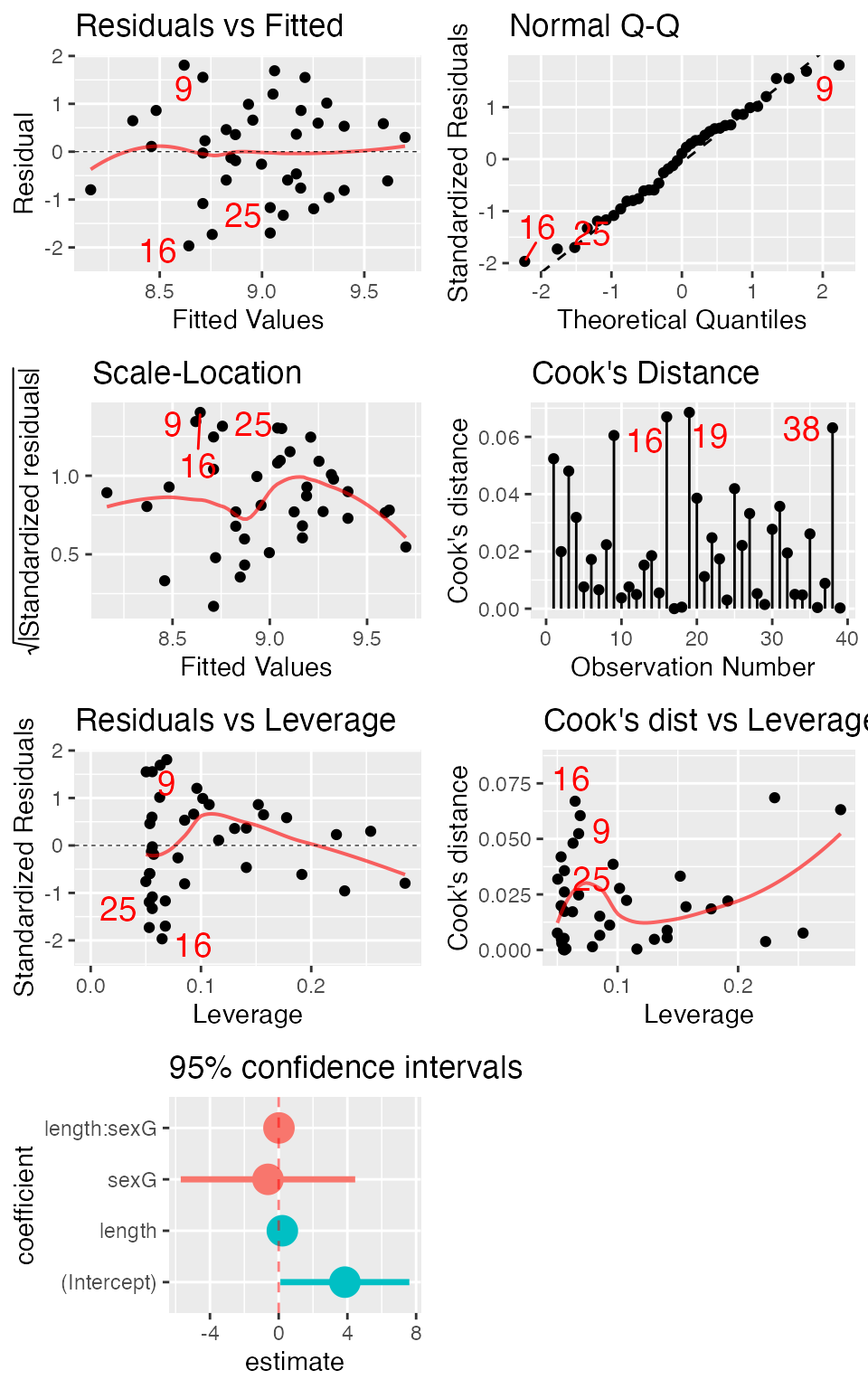
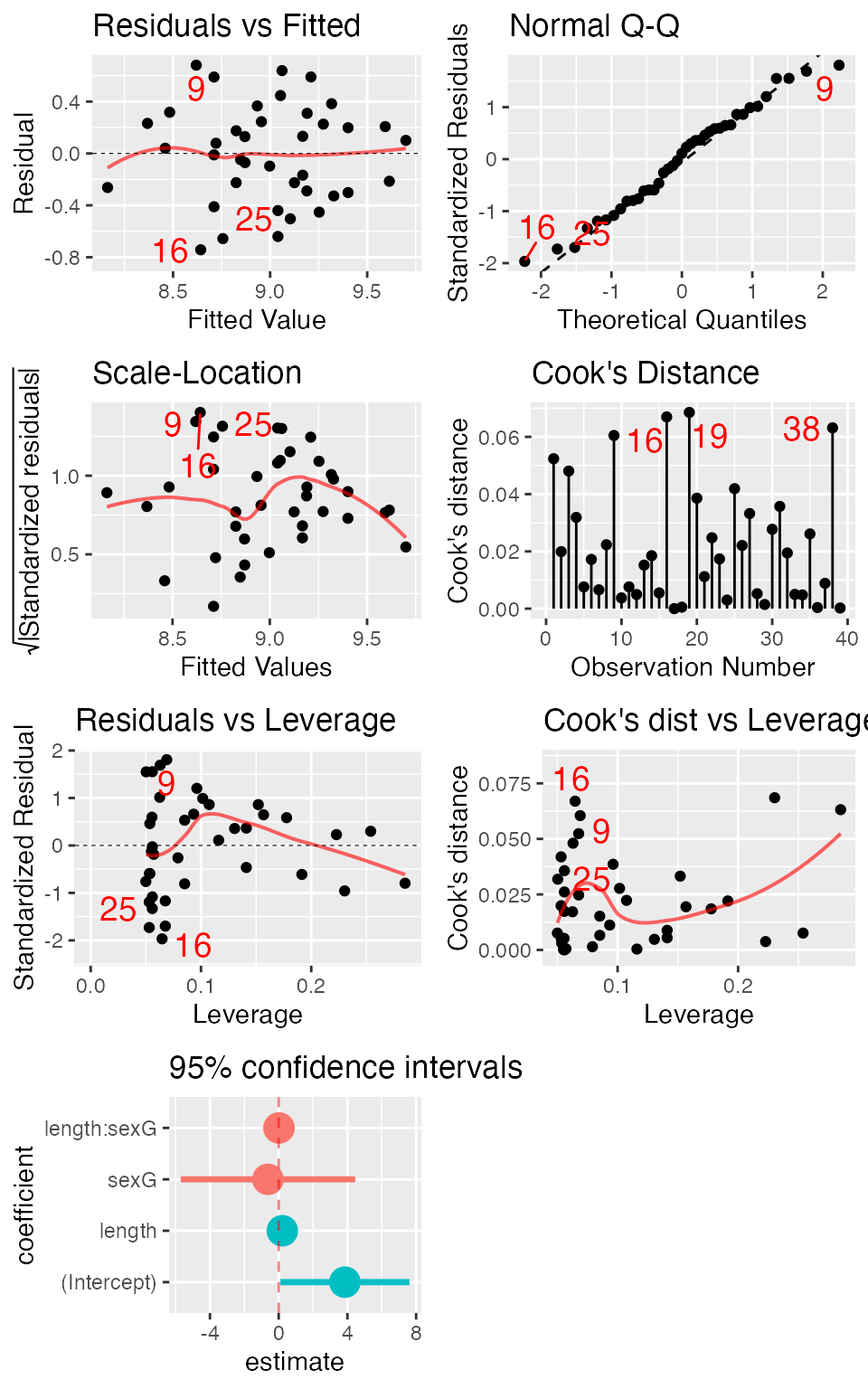
rebuild pkgdown

Changed region(s): [[0.0625, 0.0, 0.4688, 0.25], [0.0, 0.5312, 0.0625, 0.7188], [0.4062, 0.1875, 0.4375, 0.2188]]

diff --git a/docs/reference/do.html b/docs/reference/do.html
@@ -257,9 +257,9 @@ and Randall Pruim (<a href='mailto:rpruim@calvin.edu'>rpruim@calvin.edu</a>)</p>
 </div><div class='output co'>#&gt; <span class='message'>Using parallel package.</span>
 #&gt; <span class='message'>  * Set seed with set.rseed().</span>
 #&gt; <span class='message'>  * Disable this message with options(`mosaic:parallelMessage` = FALSE)</span></div><div class='output co'>#&gt;        rnorm
-#&gt; 1 -1.9633309
-#&gt; 2  0.6799135
-#&gt; 3 -0.9810619</div><div class='input'><span class='fu'>do</span><span class='op'>(</span><span class='fl'>3</span><span class='op'>)</span> <span class='op'>*</span> <span class='st'>"hello"</span>
+#&gt; 1 -1.0345478
+#&gt; 2  0.7987134
+#&gt; 3  0.1053965</div><div class='input'><span class='fu'>do</span><span class='op'>(</span><span class='fl'>3</span><span class='op'>)</span> <span class='op'>*</span> <span class='st'>"hello"</span>
 </div><div class='output co'>#&gt; <span class='message'>Using parallel package.</span>
 #&gt; <span class='message'>  * Set seed with set.rseed().</span>
 #&gt; <span class='message'>  * Disable this message with options(`mosaic:parallelMessage` = FALSE)</span></div><div class='output co'>#&gt;   hello
@@ -274,32 +274,32 @@ and Randall Pruim (<a href='mailto:rpruim@calvin.edu'>rpruim@calvin.edu</a>)</p>
 #&gt; 3  1  2  3  4</div><div class='input'><span class='fu'>do</span><span class='op'>(</span><span class='fl'>3</span><span class='op'>)</span> <span class='op'>*</span> <span class='fu'><a href='mean_.html'>mean</a></span><span class='op'>(</span><span class='fu'><a href='https://rdrr.io/r/stats/Normal.html'>rnorm</a></span><span class='op'>(</span><span class='fl'>25</span><span class='op'>)</span><span class='op'>)</span>
 </div><div class='output co'>#&gt; <span class='message'>Using parallel package.</span>
 #&gt; <span class='message'>  * Set seed with set.rseed().</span>
-#&gt; <span class='message'>  * Disable this message with options(`mosaic:parallelMessage` = FALSE)</span></div><div class='output co'>#&gt;         mean
-#&gt; 1  0.4051522
-#&gt; 2  0.2165816
-#&gt; 3 -0.1151129</div><div class='input'><span class='fu'>do</span><span class='op'>(</span><span class='fl'>3</span><span class='op'>)</span> <span class='op'>*</span> <span class='fu'><a href='https://rdrr.io/r/stats/lm.html'>lm</a></span><span class='op'>(</span><span class='fu'><a href='resample.html'>shuffle</a></span><span class='op'>(</span><span class='va'>height</span><span class='op'>)</span> <span class='op'>~</span> <span class='va'>sex</span> <span class='op'>+</span> <span class='va'>mother</span>, <span class='va'>Galton</span><span class='op'>)</span>
+#&gt; <span class='message'>  * Disable this message with options(`mosaic:parallelMessage` = FALSE)</span></div><div class='output co'>#&gt;           mean
+#&gt; 1  0.006721584
+#&gt; 2  0.039348176
+#&gt; 3 -0.192240406</div><div class='input'><span class='fu'>do</span><span class='op'>(</span><span class='fl'>3</span><span class='op'>)</span> <span class='op'>*</span> <span class='fu'><a href='https://rdrr.io/r/stats/lm.html'>lm</a></span><span class='op'>(</span><span class='fu'><a href='resample.html'>shuffle</a></span><span class='op'>(</span><span class='va'>height</span><span class='op'>)</span> <span class='op'>~</span> <span class='va'>sex</span> <span class='op'>+</span> <span class='va'>mother</span>, <span class='va'>Galton</span><span class='op'>)</span>
 </div><div class='output co'>#&gt; <span class='message'>Using parallel package.</span>
 #&gt; <span class='message'>  * Set seed with set.rseed().</span>
-#&gt; <span class='message'>  * Disable this message with options(`mosaic:parallelMessage` = FALSE)</span></div><div class='output co'>#&gt;   Intercept        sexM       mother    sigma    r.squared        F numdf dendf
-#&gt; 1  68.63566 -0.07571604 -0.028645974 3.586134 0.0004379646 0.196075     2   895
-#&gt; 2  69.37194  0.08719953 -0.041451671 3.585334 0.0008835761 0.395750     2   895
-#&gt; 3  66.54729  0.14832865  0.002131402 3.586151 0.0004282589 0.191728     2   895
+#&gt; <span class='message'>  * Disable this message with options(`mosaic:parallelMessage` = FALSE)</span></div><div class='output co'>#&gt;   Intercept       sexM     mother    sigma   r.squared         F numdf dendf
+#&gt; 1  64.45391 -0.1710129 0.03737782 3.584785 0.001189603 0.5329814     2   895
+#&gt; 2  64.45215 -0.3852502 0.03913629 3.580419 0.003621433 1.6264814     2   895
+#&gt; 3  64.21043 -0.1280755 0.04083021 3.585047 0.001044051 0.4677011     2   895
 #&gt;   .row .index
 #&gt; 1    1      1
 #&gt; 2    1      2
 #&gt; 3    1      3</div><div class='input'><span class='fu'>do</span><span class='op'>(</span><span class='fl'>3</span><span class='op'>)</span> <span class='op'>*</span> <span class='fu'><a href='https://rdrr.io/r/stats/anova.html'>anova</a></span><span class='op'>(</span><span class='fu'><a href='https://rdrr.io/r/stats/lm.html'>lm</a></span><span class='op'>(</span><span class='fu'><a href='resample.html'>shuffle</a></span><span class='op'>(</span><span class='va'>height</span><span class='op'>)</span> <span class='op'>~</span> <span class='va'>sex</span> <span class='op'>+</span> <span class='va'>mother</span>, <span class='va'>Galton</span><span class='op'>)</span><span class='op'>)</span>
 </div><div class='output co'>#&gt; <span class='message'>Using parallel package.</span>
 #&gt; <span class='message'>  * Set seed with set.rseed().</span>
-#&gt; <span class='message'>  * Disable this message with options(`mosaic:parallelMessage` = FALSE)</span></div><div class='output co'>#&gt;                  source  df           SS        MS         F      pval .row
-#&gt; sex...1             sex   1     1.878168  1.878168 0.1460253 0.7024538    1
-#&gt; mother...2       mother   1     1.747952  1.747952 0.1359011 0.7124775    2
-#&gt; Residuals...3 Residuals 895 11511.436251 12.861940        NA        NA    3
-#&gt; sex...4             sex   1     6.501050  6.501050 0.5061294 0.4770046    1
-#&gt; mother...5       mother   1    12.608856 12.608856 0.9816434 0.3220612    2
-#&gt; Residuals...6 Residuals 895 11495.952466 12.844640        NA        NA    3
-#&gt; sex...7             sex   1    17.266731 17.266731 1.3464580 0.2462077    1
-#&gt; mother...8       mother   1    20.479387 20.479387 1.5969806 0.2066607    2
-#&gt; Residuals...9 Residuals 895 11477.316254 12.823817        NA        NA    3
+#&gt; <span class='message'>  * Disable this message with options(`mosaic:parallelMessage` = FALSE)</span></div><div class='output co'>#&gt;                  source  df           SS         MS          F      pval .row
+#&gt; sex...1             sex   1 5.919968e-01  0.5919968 0.04610984 0.8300252    1
+#&gt; mother...2       mother   1 2.371030e+01 23.7103009 1.84676376 0.1745026    2
+#&gt; Residuals...3 Residuals 895 1.149076e+04 12.8388381         NA        NA    3
+#&gt; sex...4             sex   1 1.842778e+01 18.4277826 1.43510543 0.2312502    1
+#&gt; mother...5       mother   1 4.192925e+00  4.1929247 0.32653353 0.5678509    2
+#&gt; Residuals...6 Residuals 895 1.149244e+04 12.8407169         NA        NA    3
+#&gt; sex...7             sex   1 4.488690e+01 44.8868984 3.50742895 0.0614200    1
+#&gt; mother...8       mother   1 1.626590e+01 16.2659019 1.27100551 0.2598803    2
+#&gt; Residuals...9 Residuals 895 1.145391e+04 12.7976643         NA        NA    3
 #&gt;               .index
 #&gt; sex...1            1
 #&gt; mother...2         1
@@ -313,22 +313,22 @@ and Randall Pruim (<a href='mailto:rpruim@calvin.edu'>rpruim@calvin.edu</a>)</p>
 </div><div class='output co'>#&gt; <span class='message'>Using parallel package.</span>
 #&gt; <span class='message'>  * Set seed with set.rseed().</span>
 #&gt; <span class='message'>  * Disable this message with options(`mosaic:parallelMessage` = FALSE)</span></div><div class='output co'>#&gt;   sample.mean
-#&gt; 1 -0.47640160
-#&gt; 2  0.07563422
-#&gt; 3 -0.08604106</div><div class='input'><span class='co'># change the names on the fly</span>
+#&gt; 1  0.08799766
+#&gt; 2  0.14830201
+#&gt; 3  0.09310375</div><div class='input'><span class='co'># change the names on the fly</span>
 <span class='fu'>do</span><span class='op'>(</span><span class='fl'>3</span><span class='op'>)</span> <span class='op'>*</span> <span class='fu'><a href='mean_.html'>mean</a></span><span class='op'>(</span><span class='op'>~</span><span class='va'>height</span>, data <span class='op'>=</span> <span class='fu'><a href='resample.html'>resample</a></span><span class='op'>(</span><span class='va'>Galton</span><span class='op'>)</span><span class='op'>)</span>
 </div><div class='output co'>#&gt; <span class='message'>Using parallel package.</span>
 #&gt; <span class='message'>  * Set seed with set.rseed().</span>
 #&gt; <span class='message'>  * Disable this message with options(`mosaic:parallelMessage` = FALSE)</span></div><div class='output co'>#&gt;       mean
-#&gt; 1 66.73296
-#&gt; 2 66.66047
-#&gt; 3 66.74777</div><div class='input'><span class='fu'>do</span><span class='op'>(</span><span class='fl'>3</span><span class='op'>)</span> <span class='op'>*</span> <span class='fu'><a href='https://rdrr.io/r/base/c.html'>c</a></span><span class='op'>(</span>mean_height <span class='op'>=</span> <span class='fu'><a href='mean_.html'>mean</a></span><span class='op'>(</span><span class='op'>~</span><span class='va'>height</span>, data <span class='op'>=</span> <span class='fu'><a href='resample.html'>resample</a></span><span class='op'>(</span><span class='va'>Galton</span><span class='op'>)</span><span class='op'>)</span><span class='op'>)</span>
+#&gt; 1 66.63051
+#&gt; 2 66.67105
+#&gt; 3 66.68964</div><div class='input'><span class='fu'>do</span><span class='op'>(</span><span class='fl'>3</span><span class='op'>)</span> <span class='op'>*</span> <span class='fu'><a href='https://rdrr.io/r/base/c.html'>c</a></span><span class='op'>(</span>mean_height <span class='op'>=</span> <span class='fu'><a href='mean_.html'>mean</a></span><span class='op'>(</span><span class='op'>~</span><span class='va'>height</span>, data <span class='op'>=</span> <span class='fu'><a href='resample.html'>resample</a></span><span class='op'>(</span><span class='va'>Galton</span><span class='op'>)</span><span class='op'>)</span><span class='op'>)</span>
 </div><div class='output co'>#&gt; <span class='message'>Using parallel package.</span>
 #&gt; <span class='message'>  * Set seed with set.rseed().</span>
 #&gt; <span class='message'>  * Disable this message with options(`mosaic:parallelMessage` = FALSE)</span></div><div class='output co'>#&gt;   mean_height
-#&gt; 1    66.77906
-#&gt; 2    66.74521
-#&gt; 3    66.73274</div><div class='input'><span class='fu'><a href='set.rseed.html'>set.rseed</a></span><span class='op'>(</span><span class='fl'>1234</span><span class='op'>)</span>
+#&gt; 1    66.71125
+#&gt; 2    66.65445
+#&gt; 3    66.92584</div><div class='input'><span class='fu'><a href='set.rseed.html'>set.rseed</a></span><span class='op'>(</span><span class='fl'>1234</span><span class='op'>)</span>
 <span class='fu'>do</span><span class='op'>(</span><span class='fl'>3</span><span class='op'>)</span> <span class='op'>*</span> <span class='fu'><a href='https://rdrr.io/pkg/mosaicCore/man/tally.html'>tally</a></span><span class='op'>(</span> <span class='op'>~</span><span class='va'>sex</span><span class='op'>|</span><span class='va'>treat</span>, data<span class='op'>=</span><span class='fu'><a href='resample.html'>resample</a></span><span class='op'>(</span><span class='va'>HELPrct</span><span class='op'>)</span><span class='op'>)</span>
 </div><div class='output co'>#&gt; <span class='message'>Using parallel package.</span>
 #&gt; <span class='message'>  * Set seed with set.rseed().</span>

diff --git a/docs/reference/design_plot.html b/docs/reference/design_plot.html
@@ -6,7 +6,7 @@
 <meta http-equiv="X-UA-Compatible" content="IE=edge">
 <meta name="viewport" content="width=device-width, initial-scale=1.0">
 
-<title>Interactive plotting — mPlot • mosaic</title>
+<title>Interactively design plots — design_plot • mosaic</title>
 
 
 <!-- jquery -->
@@ -39,13 +39,11 @@
 
 
 
-<meta property="og:title" content="Interactive plotting — mPlot" />
-<meta property="og:description" content="These functions provide a menu selection system (via manipulate) so that
-different aspects of a plot can be selected interactively.
-The ggplot2 or lattice
-command for generating the plot currently being displayed can be copied to the
-console, whence it can be copied to a document for later direct, non-interactive
-use." />
+<meta property="og:title" content="Interactively design plots — design_plot" />
+<meta property="og:description" content="Proves a simple interface to let users interactively design plots in ggformula, lattice, or ggplot2.
+An option is available to show the code used to create the plot.
+This can be copied and pasted elsewhere to (into an RMarkdown document, for example) to recreate the plot.
+Only works in RStudio. Requires the manipulate package." />
 
 
 
@@ -140,21 +138,19 @@ use." />
 <div class="row">
   <div class="col-md-9 contents">
     <div class="page-header">
-    <h1>Interactive plotting</h1>
+    <h1>Interactively design plots</h1>
     <small class="dont-index">Source: <a href='https://github.com/ProjectMOSAIC/mosaic/blob/master/R/mPlots.R'><code>R/mPlots.R</code></a></small>
-    <div class="hidden name"><code>mPlotting.Rd</code></div>
+    <div class="hidden name"><code>design_plot.Rd</code></div>
     </div>
 
     <div class="ref-description">
-    <p>These functions provide a menu selection system (via <span class="pkg">manipulate</span>) so that
-different aspects of a plot can be selected interactively.
-The <span class="pkg">ggplot2</span> or <span class="pkg">lattice</span>
-command for generating the plot currently being displayed can be copied to the
-console, whence it can be copied to a document for later direct, non-interactive
-use.</p>
+    <p>Proves a simple interface to let users interactively design plots in <span class="pkg">ggformula</span>, <span class="pkg">lattice</span>, or <span class="pkg">ggplot2</span>.
+An option is available to show the code used to create the plot.
+This can be copied and pasted elsewhere to (into an RMarkdown document, for example) to recreate the plot.
+Only works in RStudio. Requires the <span class="pkg">manipulate</span> package.</p>
     </div>
 
-    <pre class="usage"><span class='fu'>mPlot</span><span class='op'>(</span>
+    <pre class="usage"><span class='fu'>design_plot</span><span class='op'>(</span>
   <span class='va'>data</span>,
   <span class='va'>format</span>,
   default <span class='op'>=</span> <span class='va'>format</span>,
@@ -163,35 +159,6 @@ use.</p>
   title <span class='op'>=</span> <span class='st'>""</span>,
   data_text <span class='op'>=</span> <span class='fu'><a href='https://rdrr.io/r/base/substitute.html'>substitute</a></span><span class='op'>(</span><span class='va'>data</span><span class='op'>)</span>,
   <span class='va'>...</span>
-<span class='op'>)</span>
-
-<span class='fu'>mMap</span><span class='op'>(</span>
-  <span class='va'>data</span>,
-  default <span class='op'>=</span> <span class='st'>"map"</span>,
-  system <span class='op'>=</span> <span class='st'>"ggplot2"</span>,
-  show <span class='op'>=</span> <span class='cn'>FALSE</span>,
-  title <span class='op'>=</span> <span class='va'>title</span>,
-  data_text <span class='op'>=</span> <span class='fu'>rlang</span><span class='fu'>::</span><span class='fu'><a href='https://rlang.r-lib.org/reference/expr_label.html'>expr_text</a></span><span class='op'>(</span><span class='va'>data</span><span class='op'>)</span>,
-  <span class='va'>...</span>
-<span class='op'>)</span>
-
-<span class='fu'>mScatter</span><span class='op'>(</span>
-  <span class='va'>data</span>,
-  default <span class='op'>=</span> <span class='fu'><a href='https://rdrr.io/r/base/c.html'>c</a></span><span class='op'>(</span><span class='st'>"scatter"</span>, <span class='st'>"jitter"</span>, <span class='st'>"boxplot"</span>, <span class='st'>"violin"</span>, <span class='st'>"line"</span>, <span class='st'>"sina"</span>,
-    <span class='st'>"density (contours)"</span>, <span class='st'>"density (filled)"</span><span class='op'>)</span>,
-  system <span class='op'>=</span> <span class='st'>"ggformula"</span>,
-  show <span class='op'>=</span> <span class='cn'>FALSE</span>,
-  title <span class='op'>=</span> <span class='st'>""</span>,
-  data_text <span class='op'>=</span> <span class='fu'>rlang</span><span class='fu'>::</span><span class='fu'><a href='https://rlang.r-lib.org/reference/expr_label.html'>expr_text</a></span><span class='op'>(</span><span class='va'>data</span><span class='op'>)</span>
-<span class='op'>)</span>
-
-<span class='fu'>mUniplot</span><span class='op'>(</span>
-  <span class='va'>data</span>,
-  default <span class='op'>=</span> <span class='fu'><a href='https://rdrr.io/r/base/c.html'>c</a></span><span class='op'>(</span><span class='st'>"histogram"</span>, <span class='st'>"density"</span>, <span class='st'>"frequency polygon"</span>, <span class='st'>"ASH plot"</span><span class='op'>)</span>,
-  system <span class='op'>=</span> <span class='fu'>system_choices</span><span class='op'>(</span><span class='op'>)</span><span class='op'>[</span><span class='fl'>1</span><span class='op'>]</span>,
-  show <span class='op'>=</span> <span class='cn'>FALSE</span>,
-  title <span class='op'>=</span> <span class='st'>""</span>,
-  data_text <span class='op'>=</span> <span class='fu'>rlang</span><span class='fu'>::</span><span class='fu'><a href='https://rlang.r-lib.org/reference/expr_label.html'>expr_text</a></span><span class='op'>(</span><span class='va'>data</span><span class='op'>)</span>
 <span class='op'>)</span></pre>
 
     <h2 class="hasAnchor" id="arguments"><a class="anchor" href="#arguments"></a>Arguments</h2>
@@ -256,27 +223,24 @@ modify this from the default value.</p></td>
 
     <h2 class="hasAnchor" id="value"><a class="anchor" href="#value"></a>Value</h2>
 
-    <p>Nothing.  Just for side effects.</p>
+    <p>Nothing.  Used for side effects.</p>
     <h2 class="hasAnchor" id="details"><a class="anchor" href="#details"></a>Details</h2>
 
-    <p>Only <code>mPlot</code> is required by end users.  The other plotting functions
-are dispatched based on the value of <code>default</code>.  Furthermore, <code><a href='mplot.html'>mplot()</a></code>
-will dispatch <code>mPlot</code> when provided a data frame.</p>
-<p>Currently maps are only supported in <span class="pkg">ggplot2</span> and not in <span class="pkg">lattice</span>.</p>
-<p>Due to an unresolved issue with RStudio, the first time this function is called, and additional
-plot is created to correctily initialize the mainipulate frameowrk.</p>
-    <h2 class="hasAnchor" id="note"><a class="anchor" href="#note"></a>Note</h2>
-
-    
-
-
+    <p>Currently maps are only supported in <span class="pkg">ggplot2</span> and not in <span class="pkg">lattice</span>.</p>
 <p>Due to an unresolved issue with RStudio, the first time this function is called, and additional
 plot is created to correctily initialize the mainipulate frameowrk.</p>
 
     <h2 class="hasAnchor" id="examples"><a class="anchor" href="#examples"></a>Examples</h2>
     <pre class="examples"><div class='input'><span class='kw'>if</span> <span class='op'>(</span><span class='cn'>FALSE</span><span class='op'>)</span> <span class='op'>{</span>
-<span class='fu'>mPlot</span><span class='op'>(</span><span class='va'>HELPrct</span>, format <span class='op'>=</span> <span class='st'>"scatter"</span><span class='op'>)</span>
-<span class='fu'>mPlot</span><span class='op'>(</span><span class='va'>HELPrct</span>, format <span class='op'>=</span> <span class='st'>"density"</span><span class='op'>)</span>
+  <span class='va'>mtcars2</span> <span class='op'>&lt;-</span> 
+    <span class='va'>mtcars</span> <span class='op'>%&gt;%</span> 
+      <span class='fu'>mutate</span><span class='op'>(</span>
+        cyl2 <span class='op'>=</span> <span class='fu'><a href='https://rdrr.io/r/base/factor.html'>factor</a></span><span class='op'>(</span><span class='va'>cyl</span><span class='op'>)</span>, 
+        carb2 <span class='op'>=</span> <span class='fu'><a href='https://rdrr.io/r/base/factor.html'>factor</a></span><span class='op'>(</span><span class='va'>carb</span><span class='op'>)</span>,
+        shape <span class='op'>=</span> <span class='fu'><a href='https://rdrr.io/r/base/c.html'>c</a></span><span class='op'>(</span><span class='st'>"V-shaped"</span>, <span class='st'>"straight"</span><span class='op'>)</span><span class='op'>[</span><span class='fl'>1</span> <span class='op'>+</span> <span class='va'>vs</span><span class='op'>]</span>, 
+        gear2 <span class='op'>=</span> <span class='fu'><a href='https://rdrr.io/r/base/factor.html'>factor</a></span><span class='op'>(</span><span class='va'>gear</span><span class='op'>)</span>, 
+        transmission <span class='op'>=</span> <span class='fu'><a href='https://rdrr.io/r/base/c.html'>c</a></span><span class='op'>(</span><span class='st'>"automatic"</span>, <span class='st'>"manual"</span><span class='op'>)</span><span class='op'>[</span><span class='fl'>1</span> <span class='op'>+</span> <span class='va'>am</span><span class='op'>]</span><span class='op'>)</span>
+  <span class='fu'>design_plot</span><span class='op'>(</span><span class='va'>mtcars2</span><span class='op'>)</span>
 <span class='op'>}</span>
 </div></pre>
   </div>

diff --git a/docs/articles/mosaic-resources.html b/docs/articles/mosaic-resources.html
@@ -125,9 +125,9 @@
 <p>Some features of the mosaic package are provided through auxiliary packages. These include:</p>
 <ul>
 <li>mosaicModel – implements high-level systems for working with statistical models: effect-size calculation, bootstrapped confidence intervals, prediction error, graphics for models with multiple inputs. The package contains an introductory vignette.</li>
-<li>mosaicCalc – provides the calculus components of mosaic, including integration, differentiation, and differential equation solving. See <em><a href="http://www.mosaic-web.org/wp-content/uploads/2019/01/UMAP-mosaic-calculus.pdf">Modeling-based calculus with R/mosaic</a></em> for an instructor-oriented introduction and <em><a href="http://project-mosaic-books.com/?page_id=22">Start R in Calculus</a></em> for a student-facing guide.</li>
+<li>mosaicCalc – provides the calculus components of mosaic, including integration, differentiation, and differential equation solving.</li>
 </ul>
-<p>Install these packages using <code><a href="https://rdrr.io/r/utils/install.packages.html">install.packages(c("mosaicCalc", "mosaicModel"))</a></code>.</p>
+<!-- See *[Modeling-based calculus with R/mosaic](http://www.mosaic-web.org/wp-content/uploads/2019/01/UMAP-mosaic-calculus.pdf)* for an instructor-oriented introduction and *[Start R in Calculus](http://project-mosaic-books.com/?page_id=22)* for a student-facing guide. --><p>Install these packages using <code><a href="https://rdrr.io/r/utils/install.packages.html">install.packages(c("mosaicCalc", "mosaicModel"))</a></code>.</p>
 </div>
 <div id="mosaic-paper" class="section level2">
 <h2 class="hasAnchor">
@@ -143,8 +143,8 @@
 <li><p><em>Start Teaching Statistics Using R</em> includes some strategies for teaching beginners, and introduction to the <code>mosaic</code> package, and some additional things that instructors should know about using R. (A spanish language translation can be found at <a href="https://github.com/fjaraavilaa/MOSAIC-LittleBooks-Spanish" class="uri">https://github.com/fjaraavilaa/MOSAIC-LittleBooks-Spanish</a>.)</p></li>
 <li><p><em><a href="https://github.com/ProjectMOSAIC/LittleBooks/raw/master/StudentGuide/MOSAIC-StudentGuide.pdf">A Student’s Guide to R</a></em> provides a brief introduction to the R commands needed for all the basic statistical procedures in an Intro Stats course.<br>
 (A spanish language translation can be found at <a href="https://github.com/fjaraavilaa/MOSAIC-LittleBooks-Spanish" class="uri">https://github.com/fjaraavilaa/MOSAIC-LittleBooks-Spanish</a>.)</p></li>
-<li><p><em><a href="http://project-mosaic-books.com/?page_id=22">Start R in Calculus</a></em> highlights features of R and the <code>mosaic</code> package that can be used to teach calculus with R.</p></li>
 </ul>
+<!--  * *[Start R in Calculus](http://project-mosaic-books.com/?page_id=22)* highlights features  --><!-- of R and the `mosaic` package that can be used to teach  --><!-- calculus with R. -->
 </div>
 <div id="textbook-related" class="section level2">
 <h2 class="hasAnchor">

diff --git a/docs/index.html b/docs/index.html
@@ -99,9 +99,10 @@
       </header><div class="row">
   <div class="contents col-md-9">
 
-<div id="section" class="section level2">
+<hr>
+<div id="title-the-mosaic-package" class="section level2">
 <h2 class="hasAnchor">
-<a href="#section" class="anchor"></a>—</h2>
+<a href="#title-the-mosaic-package" class="anchor"></a>title: The mosaic package</h2>
 <!-- [![CRAN_Status_Badge](http://www.r-pkg.org/badges/version/mosaic)](http://cran.r-project.org/package=mosaic) -->
 
 </div>
@@ -125,9 +126,9 @@
 <p>Some features of the mosaic package have been split off into auxiliary packages. These include:</p>
 <ul>
 <li>mosaicModel – implements high-level systems for working with statistical models: effect-size calculation, bootstrapped confidence intervals, prediction error, graphics for models with multiple inputs. The package contains an introductory vignette.</li>
-<li>mosaicCalc – provides the calculus components of mosaic, including integration, differentiation, and differential equation solving. See <em><a href="http://www.mosaic-web.org/wp-content/uploads/2019/01/UMAP-mosaic-calculus.pdf">Modeling-based calculus with R/mosaic</a></em> for an instructor-oriented introduction and <em><a href="http://project-mosaic-books.com/?page_id=22">Start R in Calculus</a></em> for a student-facing guide.</li>
+<li>mosaicCalc – provides the calculus components of mosaic, including integration, differentiation, and differential equation solving.</li>
 </ul>
-<p>Install these packages using <code><a href="https://rdrr.io/r/utils/install.packages.html">install.packages(c("mosaicCalc", "mosaicModel"))</a></code> or from GitHub as described above.</p>
+<!-- See *[Modeling-based calculus with --><!-- R/mosaic](http://www.mosaic-web.org/wp-content/uploads/2019/01/UMAP-mosaic-calculus.pdf)* --><!-- for an instructor-oriented introduction and *[Start R in --><!-- Calculus](http://project-mosaic-books.com/?page_id=22)* for a student-facing --><!-- guide. --><p>Install these packages using <code><a href="https://rdrr.io/r/utils/install.packages.html">install.packages(c("mosaicCalc", "mosaicModel"))</a></code> or from GitHub as described above.</p>
 <p>Updates to the master github repository are more frequent than CRAN updates. Our beta branch is where we implement bug fixes most quickly and develop new features. We try to keep it pretty stable, but there may be a few rough edges, missing documentation, etc. while things are in progress.</p>
 <p>If you discover a problem with any version of the package, be sure to let us know so that we can address it. Post an issue on github or send email to <code>Rpkgs@mosaic-web.org</code>.</p>
 </div>

diff --git a/docs/reference/confint.html b/docs/reference/confint.html
@@ -290,7 +290,7 @@ The American Statistician,
 #&gt; <span class='message'>  * Disable this message with options(`mosaic:parallelMessage` = FALSE)</span></div><div class='output co'>#&gt; <span class='warning'>Warning: confint: Unable to compute any of the desired CIs</span></div><div class='output co'>#&gt; <span class='message'>Using parallel package.</span>
 #&gt; <span class='message'>  * Set seed with set.rseed().</span>
 #&gt; <span class='message'>  * Disable this message with options(`mosaic:parallelMessage` = FALSE)</span></div><div class='output co'>#&gt;   name    lower    upper level      method estimate
-#&gt; 1 mean 3.089873 7.286781  0.95 bootstrap-t      5.5</div><div class='input'><span class='fu'><a href='https://rdrr.io/r/stats/lm.html'>lm</a></span><span class='op'>(</span><span class='va'>width</span> <span class='op'>~</span> <span class='va'>length</span> <span class='op'>*</span> <span class='va'>sex</span>, data <span class='op'>=</span> <span class='va'>KidsFeet</span><span class='op'>)</span> <span class='op'>%&gt;%</span>
+#&gt; 1 mean 3.246191 7.500214  0.95 bootstrap-t      5.5</div><div class='input'><span class='fu'><a href='https://rdrr.io/r/stats/lm.html'>lm</a></span><span class='op'>(</span><span class='va'>width</span> <span class='op'>~</span> <span class='va'>length</span> <span class='op'>*</span> <span class='va'>sex</span>, data <span class='op'>=</span> <span class='va'>KidsFeet</span><span class='op'>)</span> <span class='op'>%&gt;%</span>
   <span class='fu'><a href='https://rdrr.io/r/base/summary.html'>summary</a></span><span class='op'>(</span><span class='op'>)</span> <span class='op'>%&gt;%</span>
   <span class='fu'>confint</span><span class='op'>(</span><span class='op'>)</span>
 </div><div class='output co'>#&gt;                   2.5 %    97.5 %

diff --git a/docs/articles/Resampling.html b/docs/articles/Resampling.html
@@ -187,11 +187,11 @@ Use these data to construct a 90% confidence interval for the mean price (in $1,
 <div class="sourceCode" id="cb8"><pre class="downlit sourceCode r">
 <code class="sourceCode R"><span class="va">simple</span> <span class="op">=</span> <span class="fu"><a href="https://rdrr.io/r/base/c.html">c</a></span><span class="op">(</span><span class="fl">1</span>, <span class="fl">2</span>, <span class="fl">3</span>, <span class="fl">4</span>, <span class="fl">5</span><span class="op">)</span>
 <span class="fu"><a href="../reference/resample.html">resample</a></span><span class="op">(</span><span class="va">simple</span><span class="op">)</span>
-<span class="co">#&gt; [1] 2 2 3 3 5</span>
+<span class="co">#&gt; [1] 4 5 2 5 1</span>
 <span class="fu"><a href="../reference/resample.html">resample</a></span><span class="op">(</span><span class="va">simple</span><span class="op">)</span>
-<span class="co">#&gt; [1] 5 2 1 1 4</span>
+<span class="co">#&gt; [1] 3 1 4 5 5</span>
 <span class="fu"><a href="../reference/resample.html">resample</a></span><span class="op">(</span><span class="va">simple</span><span class="op">)</span>
-<span class="co">#&gt; [1] 2 1 2 4 3</span></code></pre></div>
+<span class="co">#&gt; [1] 5 1 5 3 4</span></code></pre></div>
 <p>When applied to a dataframe, <code><a href="../reference/resample.html">resample()</a></code> selects random rows. It’s easy to demonstrate this with a statement such as:</p>
 <div class="sourceCode" id="cb9"><pre class="downlit sourceCode r">
 <code class="sourceCode R"><span class="fu"><a href="../reference/resample.html">resample</a></span><span class="op">(</span><span class="va">Mustangs</span><span class="op">)</span></code></pre></div>

diff --git a/docs/reference/diffmean.html b/docs/reference/diffmean.html
@@ -180,10 +180,10 @@ between two groups.</p></td>
 #&gt; <span class='message'>  * Set seed with set.rseed().</span>
 #&gt; <span class='message'>  * Disable this message with options(`mosaic:parallelMessage` = FALSE)</span></div><div class='output co'>#&gt; <span class='message'>Using parallel package.</span>
 #&gt; <span class='message'>  * Set seed with set.rseed().</span>
-#&gt; <span class='message'>  * Disable this message with options(`mosaic:parallelMessage` = FALSE)</span></div><div class='output co'>#&gt;      diffmean
-#&gt; 1 -0.56388094
-#&gt; 2  0.91667117
-#&gt; 3 -0.07444222</div></pre>
+#&gt; <span class='message'>  * Disable this message with options(`mosaic:parallelMessage` = FALSE)</span></div><div class='output co'>#&gt;     diffmean
+#&gt; 1 -0.8697801
+#&gt; 2 -1.2368592
+#&gt; 3 -0.4292853</div></pre>
   </div>
   <div class="col-md-3 hidden-xs hidden-sm" id="pkgdown-sidebar">
     <nav id="toc" data-toggle="toc" class="sticky-top">

diff --git a/docs/news/index.html b/docs/news/index.html
@@ -148,9 +148,11 @@
 <a href="#mosaic-183" class="anchor"></a>mosaic 1.8.3<small> Unreleased </small>
 </h1>
 <ul>
-<li>addressing CRAN issues with use of vdiffr and order()</li>
-<li>a couple small bug fixes</li>
-<li>introduction of a new function: compare()</li>
+<li>Addressing CRAN issues with use of vdiffr and order().</li>
+<li>A couple small bug fixes.</li>
+<li>Introduction of a new functions: <code><a href="https://rdrr.io/pkg/mosaicCore/man/compare.html">compare()</a></code>, and <code><a href="../reference/design_plot.html">design_plot()</a></code>.</li>
+<li>
+<code><a href="../reference/mplot.html">mplot(model, which = 1)</a></code> now uses raw residuals rather than standardized/studentized. This mathes behavior in <code><a href="https://rdrr.io/r/graphics/plot.default.html">plot()</a></code>.</li>
 </ul>
 </div>
     <div id="mosaic-180" class="section level1">

diff --git a/docs/reference/chisq.html b/docs/reference/chisq.html
@@ -198,7 +198,7 @@ applied.</p></td>
 #&gt; <span class='message'>  * Set seed with set.rseed().</span>
 #&gt; <span class='message'>  * Disable this message with options(`mosaic:parallelMessage` = FALSE)</span></div><div class='output co'>#&gt; (X.squared &gt;= chisq(Mites.table))
 #&gt;  TRUE FALSE 
-#&gt; 0.017 0.983 </div><div class='input'>  
+#&gt; 0.015 0.985 </div><div class='input'>  
 </div></pre>
   </div>
   <div class="col-md-3 hidden-xs hidden-sm" id="pkgdown-sidebar">
